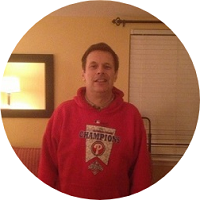
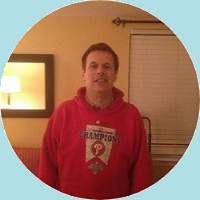
Updated CV website files

diff --git a/hobbies.html b/hobbies.html
@@ -4,7 +4,7 @@
     <meta charset="utf-8">
     <title>My Hobbies</title>
   </head>
-  <body>
+  <body style="background-color: powderblue;">
     <h3>My Hobbies</h3>
     <ol>
       <li><a href="https://www.hersheysmillgolfclub.com/" target="_blank">Golf</a></li>

diff --git a/index.html b/index.html
@@ -6,7 +6,7 @@
   <title>Mark's Personel Site</title>
 </head>
 
-<body>
+<body style="background-color: powderblue;">
   <table cellspacing="20">
     <tr>
       <td><img src="images/mark.png" alt="Mark's profile picture"></td>

diff --git a/contact-me.html b/contact-me.html
@@ -4,7 +4,7 @@
     <meta charset="utf-8">
     <title>Conatct Me</title>
   </head>
-  <body>
+  <body style="background-color: powderblue;">
     <h1>My Contact Details</h1>
 
     <h3>Address & Phone #</h3>
